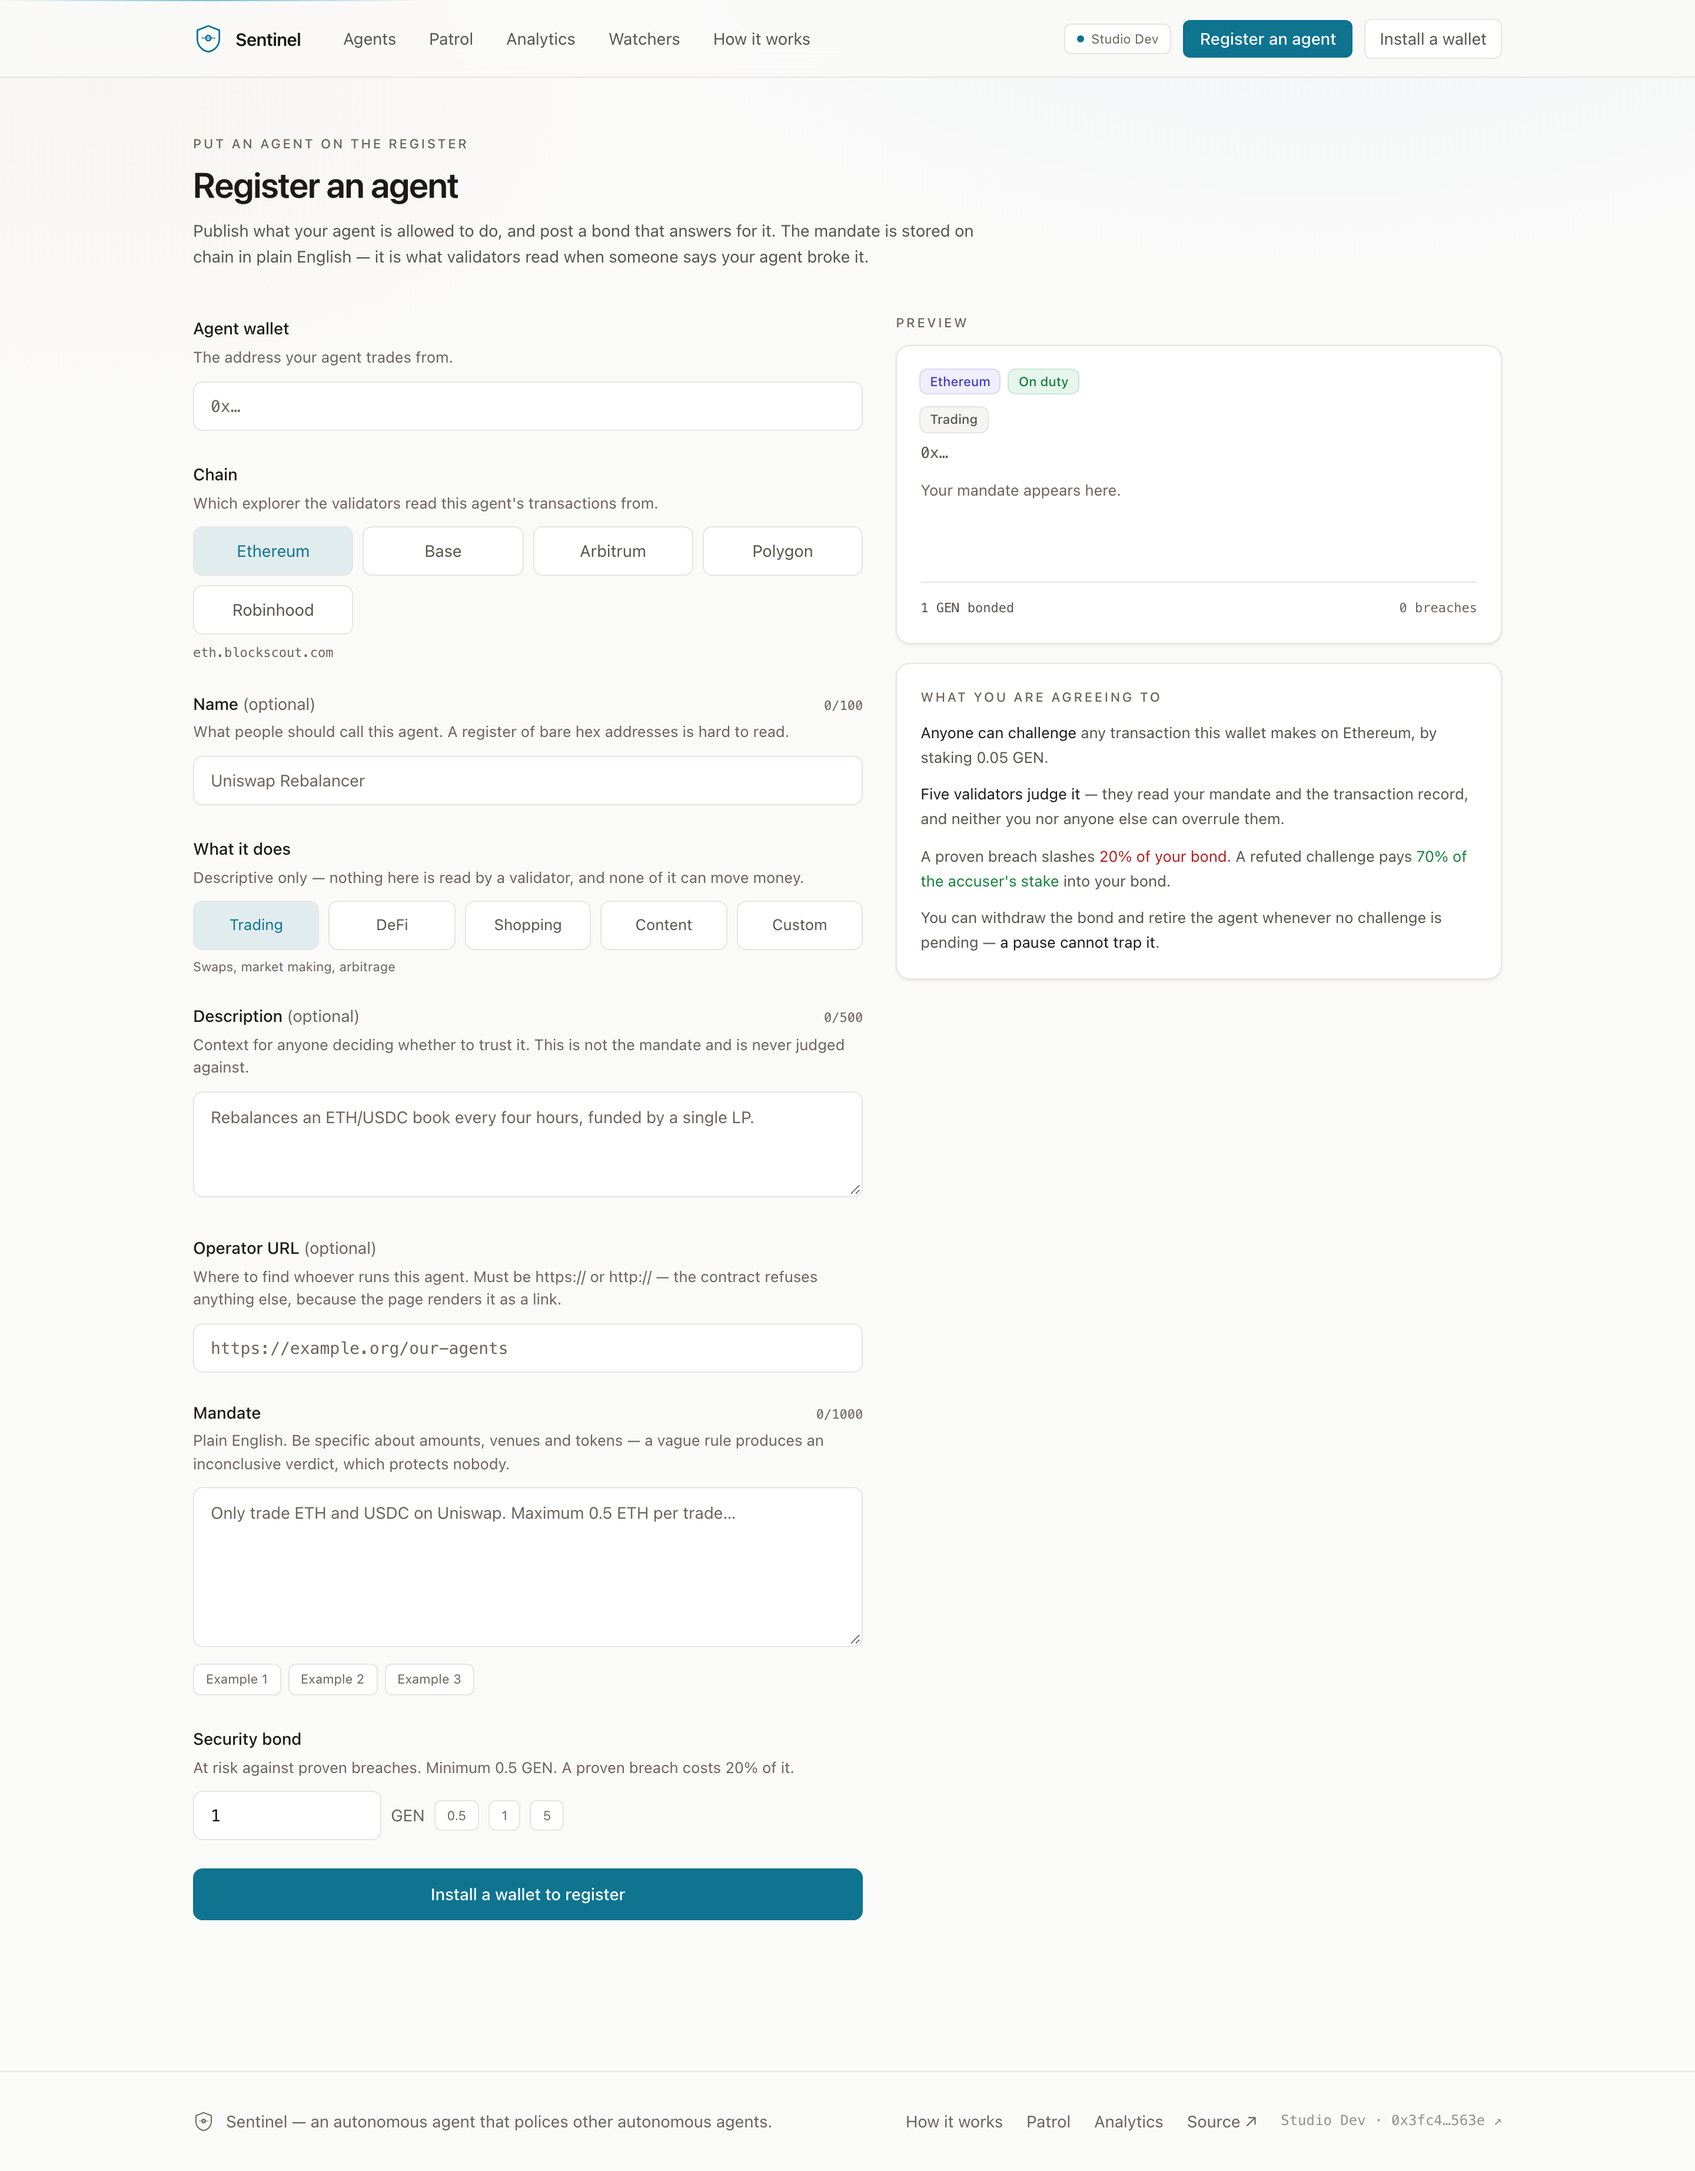
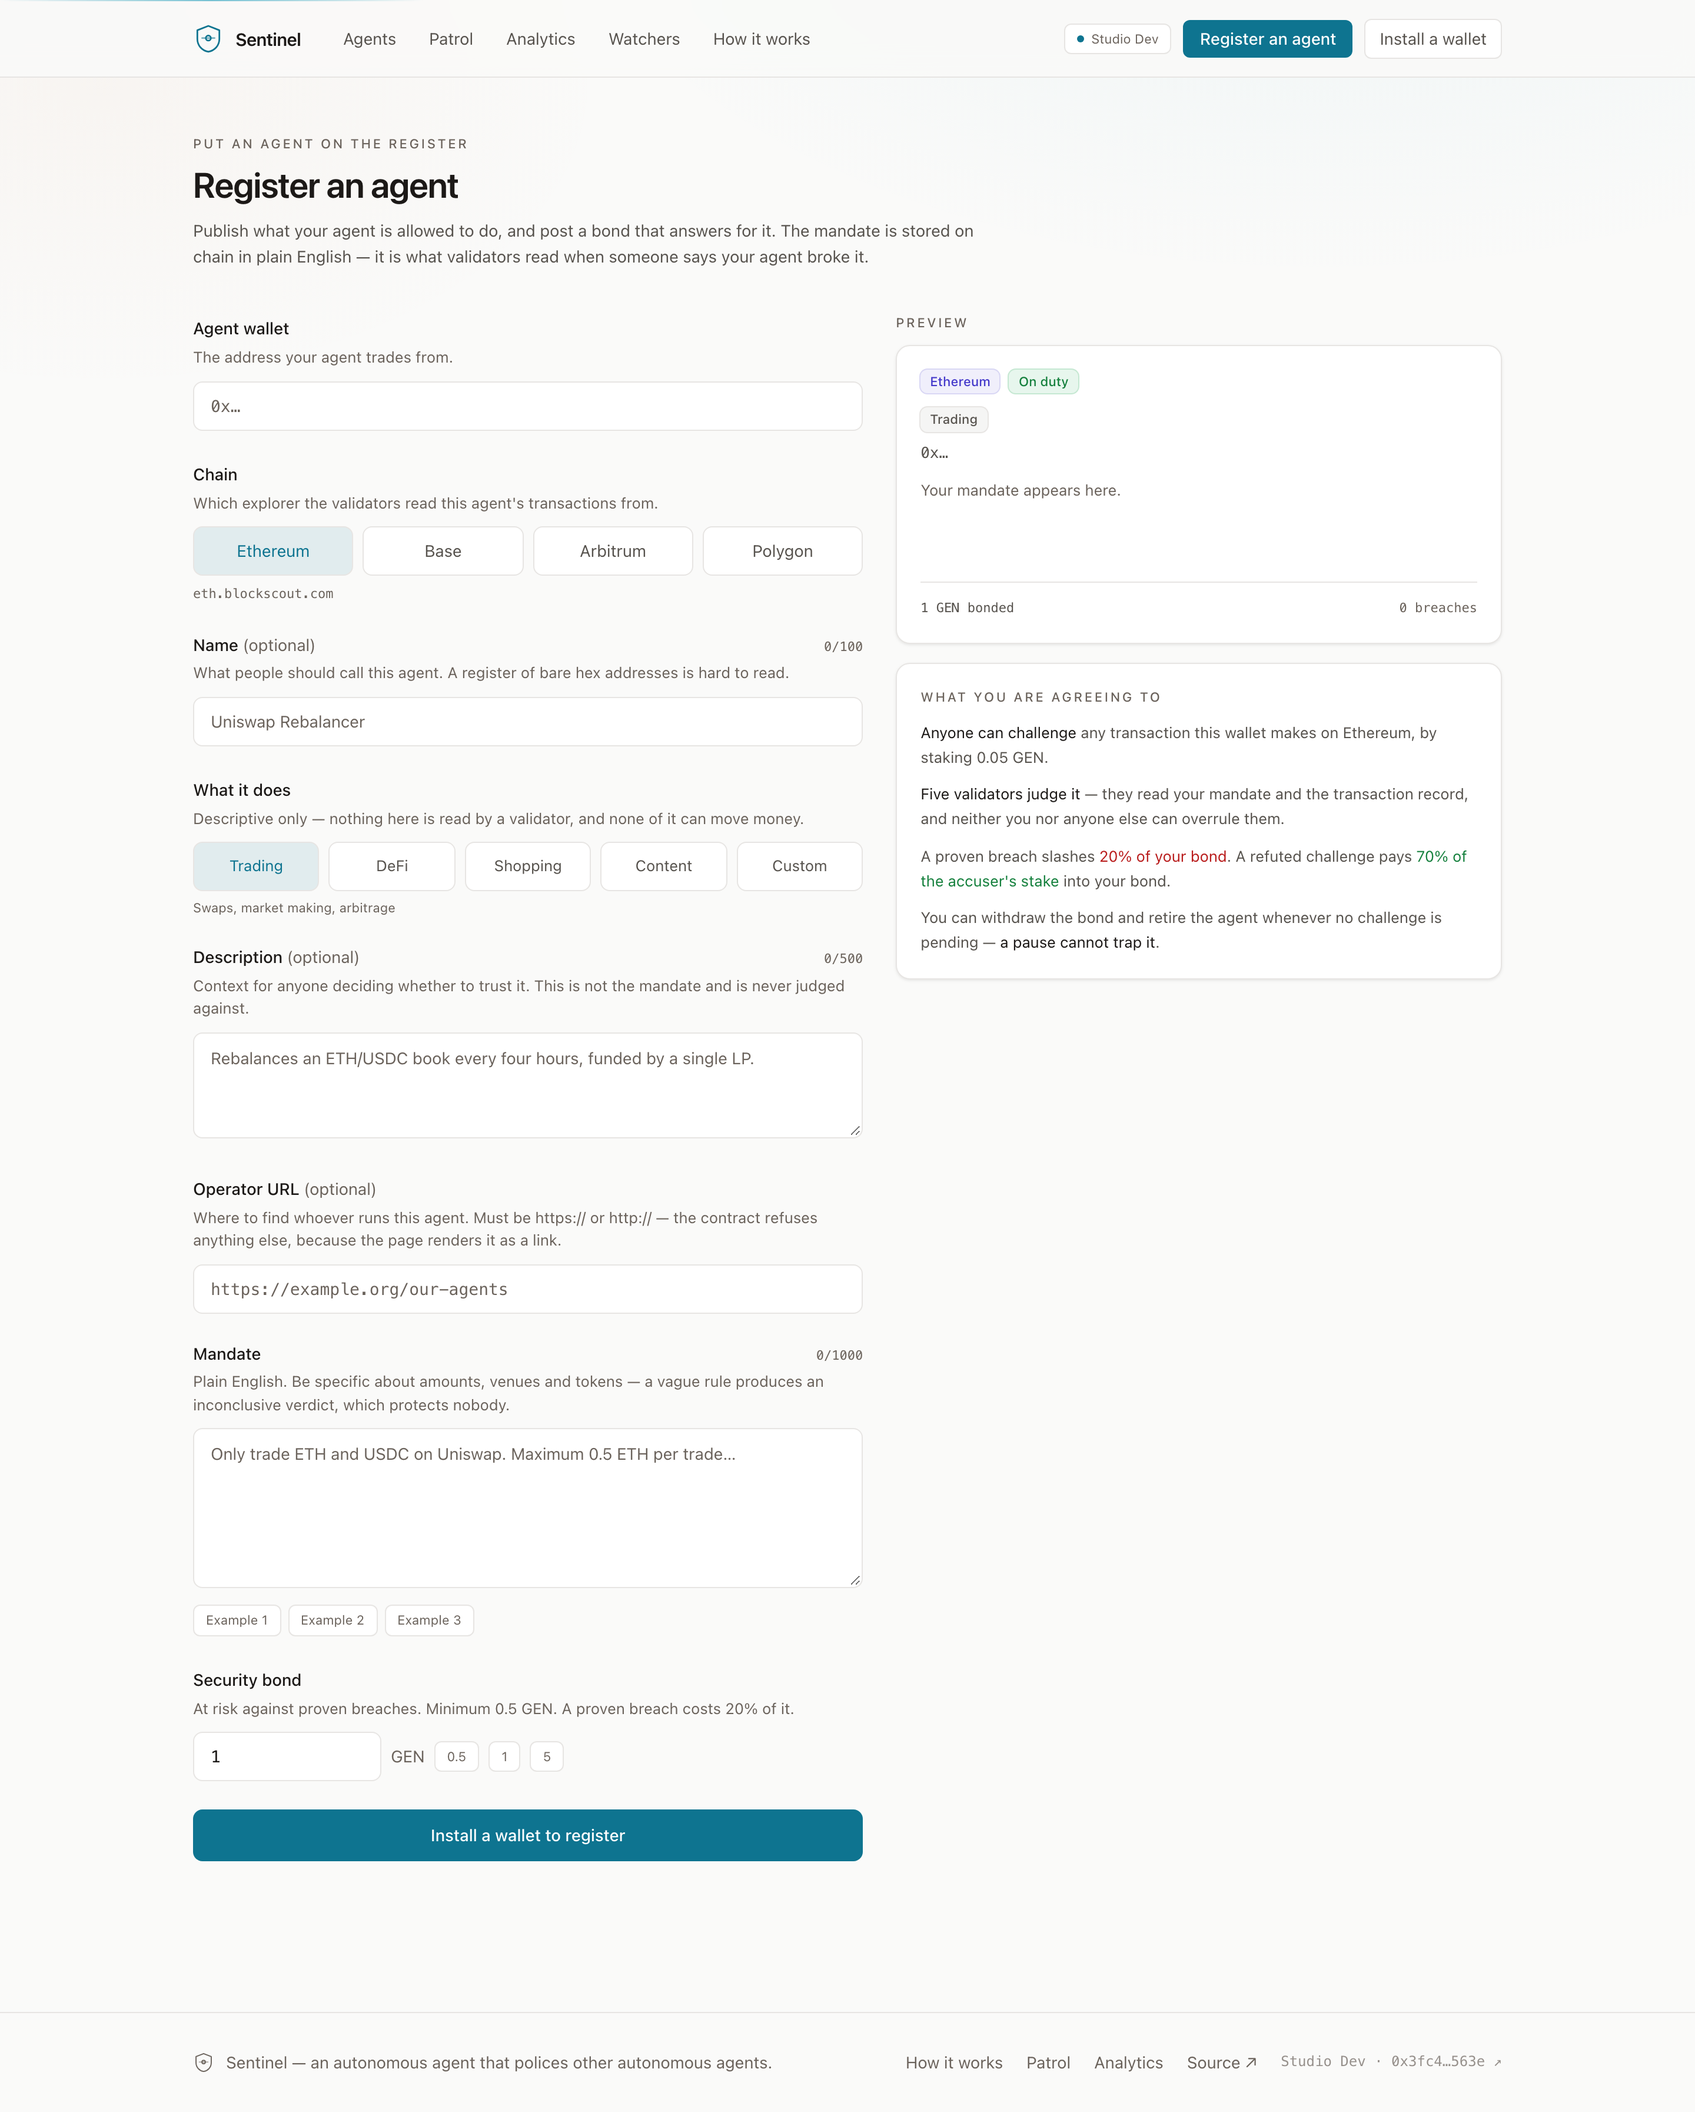
Retire the three Robinhood agents, and stop offering a chain nobody can watch
Three agents sat in the register reading "checked never", and would have read
that forever. robinhoodchain.blockscout.com answers the address-transaction
endpoint with a Cloudflare 403 from any egress, with and without a browser
User-Agent — that is the endpoint the PATROL reads, off chain, so no transaction
there can be found, none can be challenged, and the validator-side render path
never gets a case. The rows were decoration.

So: `withdraw_bond` on agents 4, 16 and 17, called by their own operators. All
three had zero pending challenges, so nothing was owed. 2.5 GEN returned, status
ACTIVE -> WITHDRAWN, records left readable. The register is now 10 agents on
active duty across the four chains that are genuinely patrolled, and every one
of them shows a real last-checked time.

THE CONTRACT WAS NOT TOUCHED, and could not be. `CHAINS` and `CHAIN_HOSTS` are
module-level constants and the ABI has no setter for them, so removing robinhood
from the contract's table means redeploying — a new address, and every one of
the 30 settled challenges, 7 proven breaches and 0.644 GEN of slashing orphaned
at the old one. That evidence trail is the most valuable thing this submission
has. The chain stays configured; the site simply stops offering it.

The frontend split is deliberate. Chain LISTS a visitor browses or picks from
lose robinhood — the /agents filters, the /register selector, the charted series
— because offering a chain whose agents can only ever be unscanned advertises a
[…]

diff --git a/frontend/src/app/(app)/docs/page.tsx b/frontend/src/app/(app)/docs/page.tsx
@@ -96,7 +96,7 @@ export default function DocsPage() {
 
       <H2>When the explorer will not talk to a robot</H2>
       <P>
-        Four of the five explorers answer a plain HTTP GET.{" "}
+        Four of the five configured explorers answer a plain HTTP GET.{" "}
         <span className="mono text-ink">robinhoodchain.blockscout.com</span> does not: it
         sits behind a bot check that answers an ordinary request with a{" "}
         <span className="mono text-ink">403</span> and a &ldquo;Just a moment&hellip;&rdquo;
@@ -119,11 +119,18 @@ export default function DocsPage() {
         <span className="text-ink">Measured again on 2026-09-10: the bot check now refuses
         everything.</span> Every registered Robinhood wallet answers{" "}
         <span className="mono text-ink">403</span> on the address-transaction endpoint, with
-        and without a browser User-Agent, so the patrol cannot read that chain at all and
-        skips its agents rather than clearing them. The chain stays configured in the
-        contract and its agents stay in the register — nothing about them is fictional —
-        but it is deliberately not advertised as watched, because a watch that cannot read
-        its subject is not a watch. The other four are unaffected.
+        and without a browser User-Agent. That is the endpoint the <em>patrol</em> reads,
+        off chain — so no transaction there can be found, none can be challenged, and the
+        validator-side render path never gets a case to judge.
+      </P>
+      <P>
+        So the three agents on that chain were <span className="text-ink">retired</span>:{" "}
+        <span className="mono text-ink">withdraw_bond</span> on all three, 2.5 GEN returned
+        to their operators, records left readable. The chain stays in the contract&apos;s
+        table and the render machinery stays in the code — neither was wrong, and it is why
+        the chain would work if the check were clearable again. What changed is that the
+        register no longer carries agents nobody can watch. The other four chains are
+        unaffected.
       </P>
 
       <H2>What stops the obvious abuses</H2>

diff --git a/frontend/src/app/(app)/agents/page.tsx b/frontend/src/app/(app)/agents/page.tsx
@@ -7,7 +7,15 @@ import { Empty, Label, Spinner } from "@/components/ui";
 import { getAgentsByChain, getAgentsByType } from "@/lib/contract";
 import { CHAIN_LABEL } from "@/lib/format";
 
-const CHAINS = ["all", "ethereum", "base", "arbitrum", "polygon", "robinhood"] as const;
+/*
+ * The four chains the patrol can actually read. Robinhood Chain is still
+ * configured in the contract and three retired agents still carry its name in
+ * their records, but robinhoodchain.blockscout.com answers every request from
+ * datacenter egress with a Cloudflare 403, so nothing on it can be scanned.
+ * Offering a filter for a chain that can only ever show unscanned agents
+ * advertises a broken watch.
+ */
+const CHAINS = ["all", "ethereum", "base", "arbitrum", "polygon"] as const;
 const TYPES = ["all", "TRADING", "DEFI", "SHOPPING", "CONTENT", "CUSTOM"] as const;
 const TYPE_LABEL: Record<string, string> = {
   all: "All types", TRADING: "Trading", DEFI: "DeFi",

diff --git a/frontend/src/lib/analytics.ts b/frontend/src/lib/analytics.ts
@@ -21,7 +21,11 @@
 import type { AgentSummary, Challenge, Chain, Verdict } from "@/types";
 
 /** The contract's chain order. Series colours are keyed to it and never to rank. */
-export const CHAIN_ORDER: readonly Chain[] = ["ethereum", "base", "arbitrum", "polygon", "robinhood"];
+/* Charted chains. Robinhood is omitted for the reason in agents/page.tsx: it
+ * cannot be scanned, so a series for it would be a flat line labelled as
+ * coverage. Its colour stays in CHAIN_SERIES for any historical record that
+ * still names it. */
+export const CHAIN_ORDER: readonly Chain[] = ["ethereum", "base", "arbitrum", "polygon"];
 
 /**
  * Chart colours for the five chains — deliberately NOT the `ChainTag` colours.

diff --git a/frontend/src/app/(app)/register/page.tsx b/frontend/src/app/(app)/register/page.tsx
@@ -9,7 +9,12 @@ import { getConfig, registerAgent } from "@/lib/contract";
 import { CHAIN_LABEL, EXPLORER_HOST, formatGen, isAddress, percentFromBps } from "@/lib/format";
 import type { AgentType, WriteResult } from "@/types";
 
-const CHAINS = ["ethereum", "base", "arbitrum", "polygon", "robinhood"] as const;
+/*
+ * Robinhood Chain is deliberately not offered. The contract would accept a
+ * registration on it, and then the patrol could never read the wallet — the
+ * operator would post a bond against a watch that cannot happen.
+ */
+const CHAINS = ["ethereum", "base", "arbitrum", "polygon"] as const;
 
 /**
  * The five types the contract accepts. Anything else it stores as CUSTOM, so

diff --git a/README.md b/README.md
@@ -74,11 +74,12 @@ is still moving**, because the patrol runs every ten minutes and files against
 it unattended:
 
 ```
-agents          18 registered, 13 active, 8.535 GEN under watch
-challenges      13 filed, 11 settled
-verdicts        7 VIOLATION, 1 COMPLIANT, 3 INCONCLUSIVE
+agents          18 registered, 10 on active duty, 6.385 GEN under watch
+                (5 bonds exhausted by breaches, 3 retired off Robinhood Chain)
+challenges      30 filed, 30 settled, 0 pending
+verdicts        7 VIOLATION, 11 COMPLIANT, 12 INCONCLUSIVE
 economics       0.644 GEN slashed, 0.322 GEN paid out in bounties
-patrols_run     9
+patrols_run     37
 ```
 
 Every one of those challenges was filed **and** judged by the patrol bot, not by
@@ -140,12 +141,13 @@ afternoon must never read as a clean bill of health.
 
 ## The register is real
 
-**Eighteen agents are registered on Studio Dev today**, spanning all five
-configured chains — 7 on ethereum, 3 each on arbitrum, polygon and Robinhood
-Chain, and 2 on base — across three agent types (10 TRADING, 7 DEFI, 1 CUSTOM),
-with 8.535 GEN still under watch after the slashing below. The roster below is
-what `test/seed_roster.mjs` defines and it has now been seeded against this
-deployment.
+**Ten agents are on active duty on Studio Dev today**, across the four chains
+the patrol can actually read — 6 on ethereum, 2 on polygon, and 1 each on
+arbitrum and base — in three agent types, with 6.385 GEN under watch after the
+slashing below. Eighteen were registered in total: five had their bonds
+exhausted by proven breaches, and the three on Robinhood Chain were **retired
+on purpose**, their bonds withdrawn, because that chain cannot be scanned at all
+(see below). The roster is what `test/seed_roster.mjs` defines.
 
 Fifteen agents, seeded from wallets taken out of the **live transaction lists** of
 Uniswap's UniversalRouter on four chains, Aave v3's Pool, and Robinhood Chain's
@@ -173,8 +175,9 @@ globally, because the same key running on two chains is two different risk
 surfaces: on Arbitrum it may trade, on Ethereum it may only lend, and on Polygon
 it may only hold dollars. `/api/check` returns a different mandate for each.
 
-The register covers **all five chains the contract configures**, Robinhood
-Chain included. Base was the last to arrive: `docs/PROBE.md` §6 recorded `base.blockscout.com` answering 500
+The active register covers **the four chains the patrol can read**. The
+contract configures a fifth, Robinhood Chain, and its agents were retired rather
+than left standing — the section below says why. Base was the last to arrive: `docs/PROBE.md` §6 recorded `base.blockscout.com` answering 500
 to every endpoint for an entire day, so the register originally spanned three.
 The outage was transient, the host serves that wallet's history now, and a chain
 advertised in `get_config` but absent from the register is a claim nobody can
@@ -272,7 +275,7 @@ disagreed.
 
 ---
 
-## The fifth chain does not answer a robot
+## The fifth chain does not answer a robot — and is now retired
 
 Robinhood Chain was added on the brief *"same Blockscout API format as existing
 chains"*. The schema is the same. The **access path** is not, and probing it
@@ -290,9 +293,25 @@ slashed, every challenger refunded, and a register that looks like a chain full
 of well-behaved agents. Silent, and indistinguishable from success.
 
 So that one chain is read with `gl.nondet.web.render` — a real browser, which
-clears the check and returns the same JSON. `render` gives back no status code,
-so `_http_render` recovers the status and body out of the exception it raises on
-any non-2xx, and every gate in `_judge` keeps its order on all five chains.
+cleared the check and returned the same JSON. `render` gives back no status
+code, so `_http_render` recovers the status and body out of the exception it
+raises on any non-2xx, and every gate in `_judge` keeps its order on all five
+chains.
+
+**Measured again on 2026-09-10, the bot check now refuses everything.** Every
+registered Robinhood wallet answers `403` on the address-transaction endpoint,
+with and without a browser User-Agent. That is the endpoint the *patrol* reads,
+off chain — so no transaction on that chain can be found, which means none can
+be challenged, which makes the validator-side render path moot in practice. The
+three agents there could only ever have shown as never checked.
+
+So they were retired: `withdraw_bond` on all three, 2.5 GEN returned to their
+operators, records left readable. The chain stays in the contract's table and
+the render machinery stays in the code — none of that work was wrong, and it is
+the reason the chain would have worked if the check had stayed clearable. What
+changed is that the site no longer offers a chain whose agents cannot be
+watched. A register of ten agents that are genuinely patrolled says more than
+thirteen where three are decoration.
 
 Two things this does **not** fix, both measured and both written down:
 
